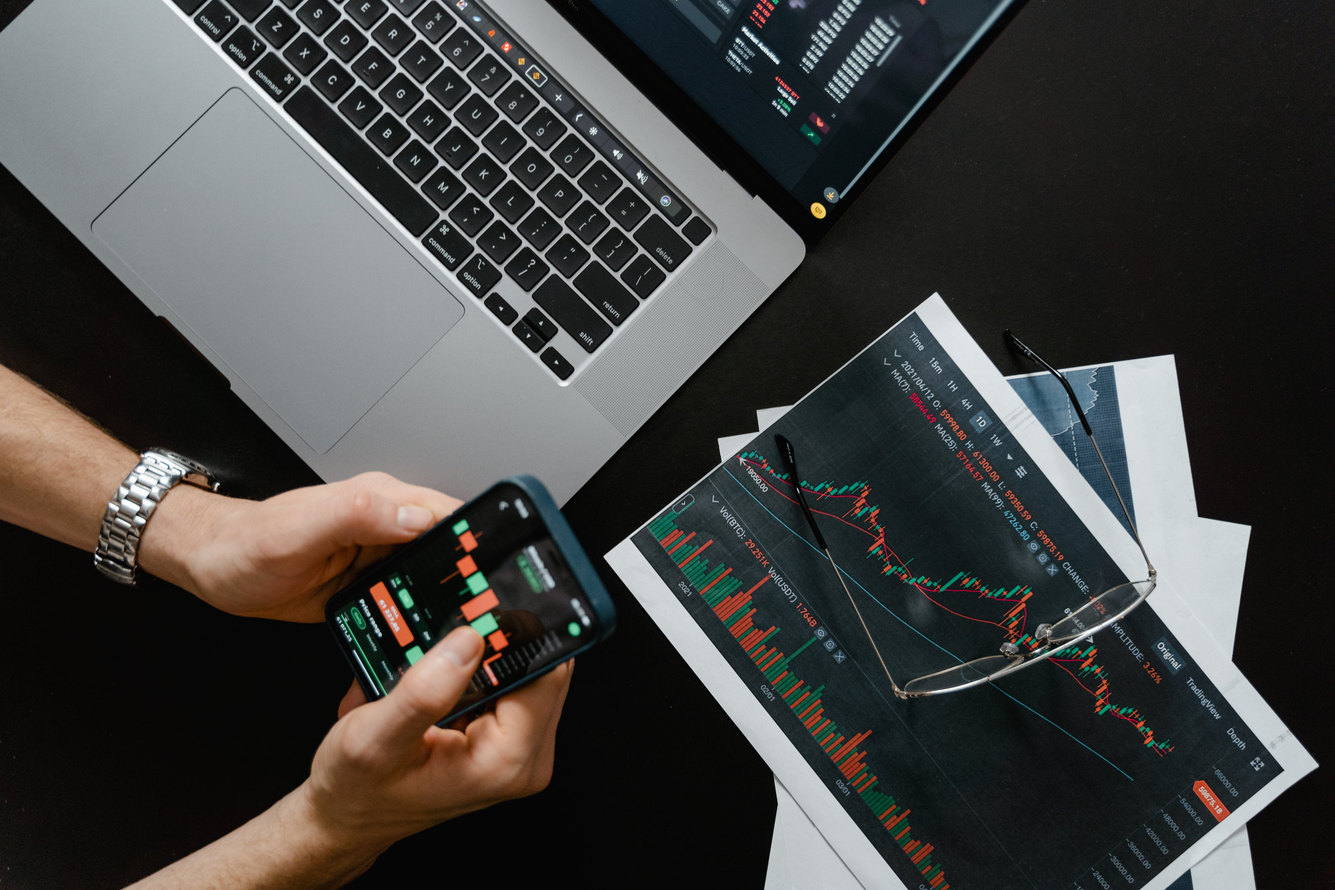
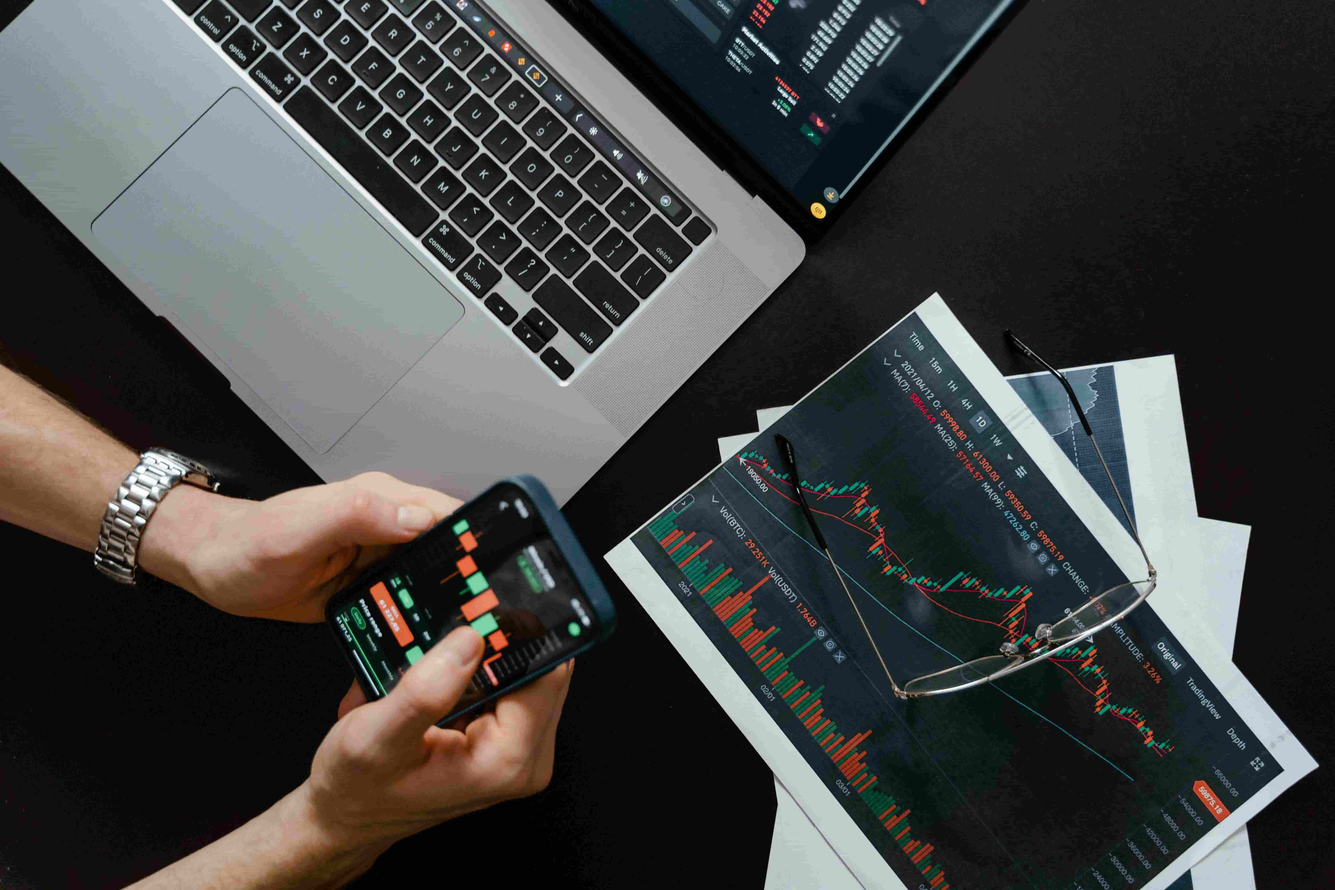
comprimimos imagenes y actualizamos las variables de entorno

diff --git a/src/services/api/index.js b/src/services/api/index.js
@@ -1,5 +1,4 @@
-const isDevelopment = import.meta.env.MODE === 'development';
-const API = isDevelopment ? import.meta.env.VITE_API_URL : 'https://api.digesolutions.com:3000';
+const API = import.meta.env.VITE_API_URL;
 const apiKey = import.meta.env.VITE_API_KEY;
 
 const createEndpoint = (basePath, routes) => {
